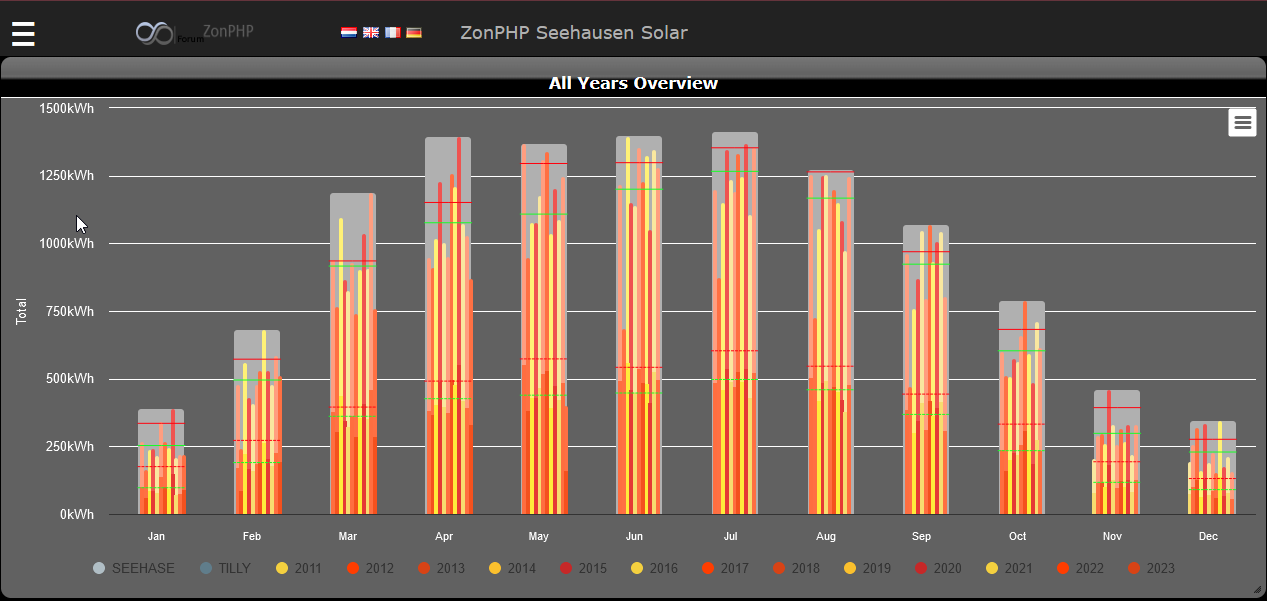
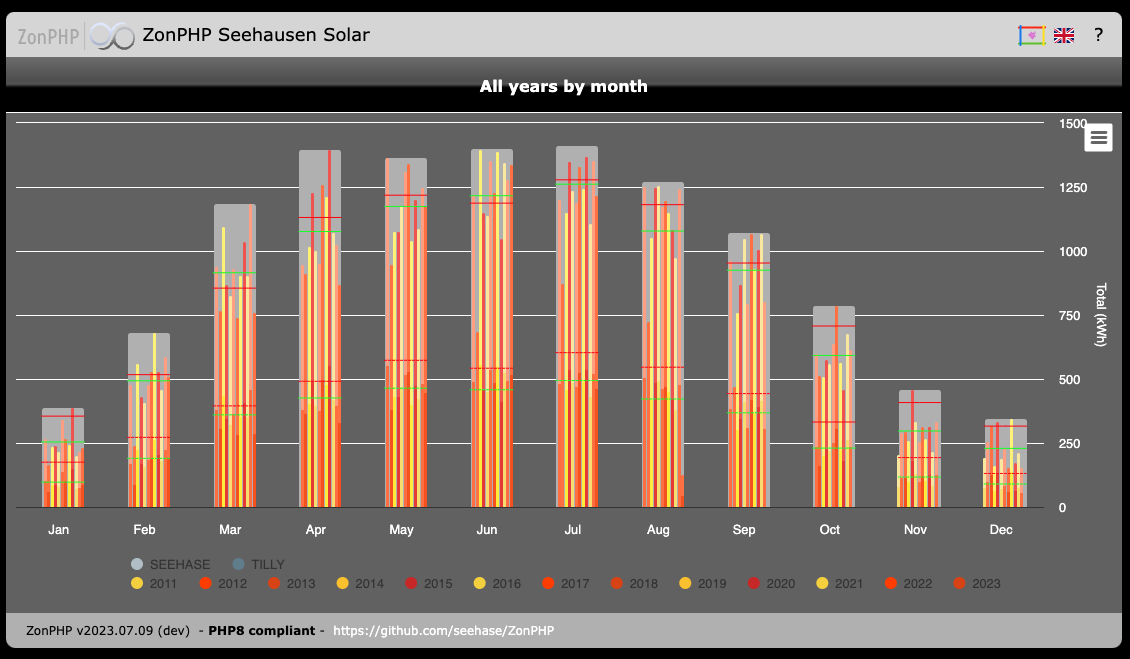
Testing and preparing next final public release

diff --git a/ZonPHP/index.php b/ZonPHP/index.php
@@ -4,18 +4,17 @@ include_once "inc/init.php";
 include_once "inc/connect.php";
 
 // fixme section ------------------------------------------------------------------------------------
-// fixme: write migration documentation
-// fixme: write installation ducumentation
-// fixme: update images of project README.md
-// fixme: make language flexible/dynamic instead of having a fixed list (load all /languagew/*.ini and show it in menu
-//
 
-// remove:  ------------------------------------------------------------------------------------
 
-// IMPROVEMENTS  ------------------------------------------------------------------------------------
-// use parameter path in plants for folder location in importer
-// use parameter separator "-" in plants as filename separator
-// use parameter linestoskip "10" in plants for import file lines to skip
+
+// todo IMPROVEMENTS  ------------------------------------------------------------------------------------
+// todo: write migration documentation
+// todo: write installation documentation
+// todo: make language flexible/dynamic instead of having a fixed list (load all /languages/*.ini and show it in menu
+// todo: new [importer] section and/or generic importer --> next release
+// todo: use parameter path in plants for folder location in importer
+// todo: use parameter separator "-" in plants as filename separator
+// todo: use parameter linestoskip "10" in plants for import file lines to skip
 
 if ($_SESSION['STARTDATE'] == NODATE) {
     prepareFarm($params, $con);

diff --git a/ZonPHP/charts/year_chart.php b/ZonPHP/charts/year_chart.php
@@ -123,13 +123,11 @@ foreach (PLANT_NAMES as $key => $inverter_name) {
     $max_bars .= "{name: '$inverter_name max', type: 'column', zIndex: -1,  linkedTo: '$inverter_name', stack: 'max', stacking: 'normal', color: \"" . $colors['color_chart_max_bar'] . "\" ,data: [";
 
     for ($i = 1; $i <= 12; $i++) {
-        //echo $i;echo ' ';    // max bars
-        //$val throws notice when database is missing months 
         @$val = round($nmaxmaand[$i][$inverter_name], 2);
-        //echo $val;echo "<BR>";
+        $formattedHref = sprintf("%s%04d-%02d-%02d", $href, $my_year, $i, 1);
         $max_bars .= "  { 
                           y:  $val, 
-                          url: \"$href$my_year-$i-01\",
+                          url: \"$formattedHref\",
                           color: \"" . $colors['color_chart_max_bar'] . "\"
                         },";
 
@@ -152,10 +150,11 @@ foreach (PLANT_NAMES as $key => $inverter_name) {
                 $val = round($all_valarray[$i][$inverter_name], 2);
                 $totalYear += $val;
             }
+            $formattedHref = sprintf("%s%04d-%02d-%02d", $href, $my_year, $i, 1);
             $current_bars .= "
                         { x: $i-1, 
                           y: $val, 
-                          url: \"$href$my_year-$i-01\",
+                          url: \"$formattedHref\",
                           color: {
                             linearGradient: { x1: 0, x2: 0, y1: 1, y2: 0 },
                             stops: [

diff --git a/ZonPHP/charts/last_years_chart.php b/ZonPHP/charts/last_years_chart.php
@@ -187,10 +187,10 @@ foreach (PLANT_NAMES as $zz => $inverter_name) {
                 }
                 $val = round($nmaxmaand[$i][$inverter_name], 2);
                 //@$my_year= $nmaxmaand_jaar[$i][$inverter_name];
-
+                $formattedHref = sprintf("%s%04d-%02d-%02d", $href, $my_year, $i, 1);
                 $max_bars .= "  { 
                           y:  $val, 
-                          url: \"$href$my_year-$i-01\",
+                          url: \"$formattedHref\",
                           color: \"" . $colors['color_chart_max_bar'] . "\"
                         },";
                 $aclickxas[$tellerkleuren][] = $asx . '-' . $i . '-1';
@@ -212,11 +212,12 @@ foreach (PLANT_NAMES as $zz => $inverter_name) {
                     $z = $totalExpectedMonth[$i][$inverter_name];
                     $reflines .= "$z, $z, $z, null,";
                 }
+                $formattedHref = sprintf("%s%04d-%02d-%02d", $href, $asx, $i, 1);
                 $current_bars .= "
                     { x: $i-1,
                       y: $cur_year , 
                       
-                      url: \"$href$asx-$i-01\",
+                      url: \"$formattedHref\",
                       color: '" . $colors['color_palettes'][$colorcnt][$colorzz] . "', 
                     },";
                 $tellerkleuren++;

diff --git a/ZonPHP/charts/month_chart.php b/ZonPHP/charts/month_chart.php
@@ -122,11 +122,11 @@ foreach (PLANT_NAMES as $inverter_name) {
             }
             $var = round($all_valarray[$i][$inverter_name], 2);
             if ($var > $local_max) $local_max = $var;
-
+            $formattedHref = sprintf("%s%04d-%02d-%02d", $myurl, $current_year, $current_month, $i);
             $strdata .= "
                     {
                       y: $var, 
-                      url: \"$myurl$current_year_month-$i\",
+                      url: \"$formattedHref\",
                       color: {
                         linearGradient: { x1: 0, x2: 0, y1: 1, y2: 0 },
                         stops: [

diff --git a/ZonPHP/inc/footer.php b/ZonPHP/inc/footer.php
@@ -3,9 +3,9 @@ global $params, $colors, $version, $new_version_label;
 ?>
 
 <div id="footer" style="background-color: <?= $colors['color_footerbackground'] ?>; display: clear:both; ">
-    <?= "ZonPHP " . $version ?> &nbsp;
+    <?= "ZonPHP " . $version ?>
     <span class="smallFooter">
-        &nbsp; - &nbsp;  <b>PHP8 compliant</b>&nbsp;- &nbsp;
+        &nbsp;-&nbsp;<b>PHP8 compliant</b>&nbsp;-&nbsp;
         <a href="https://github.com/seehase/ZonPHP" onclick="target='_blank'">https://github.com/seehase/ZonPHP</a>
     </span>
 </div>

diff --git a/README.md b/README.md
@@ -15,6 +15,7 @@ If you have any feedback or questions, please contact me at https://github.com/s
 ### Day-View
 ![img|320x271](resources%2Fday_view.png)
 
+
 ### All years per month view
 ![all_years.png](resources%2Fall_years.png)
 
